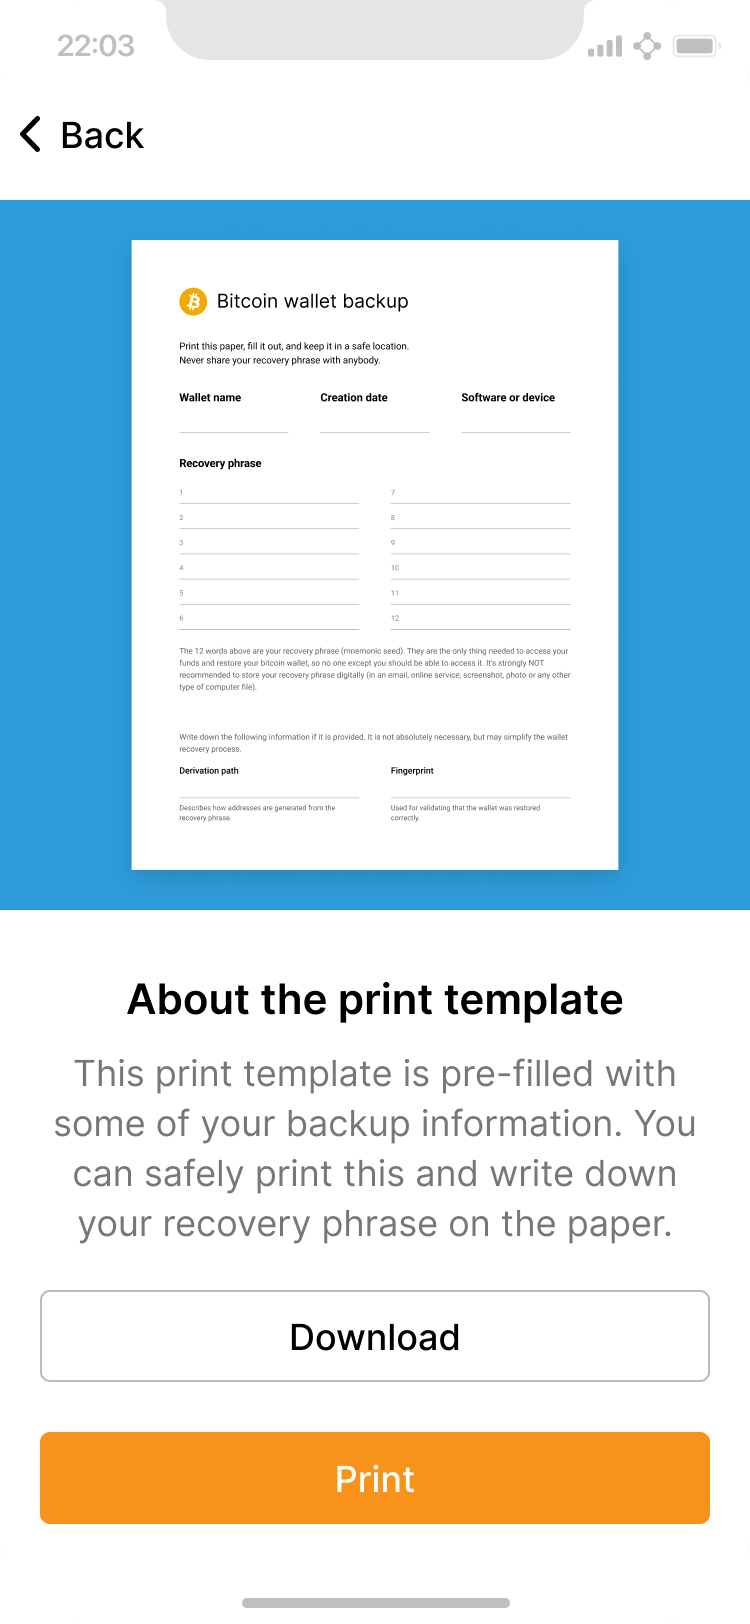
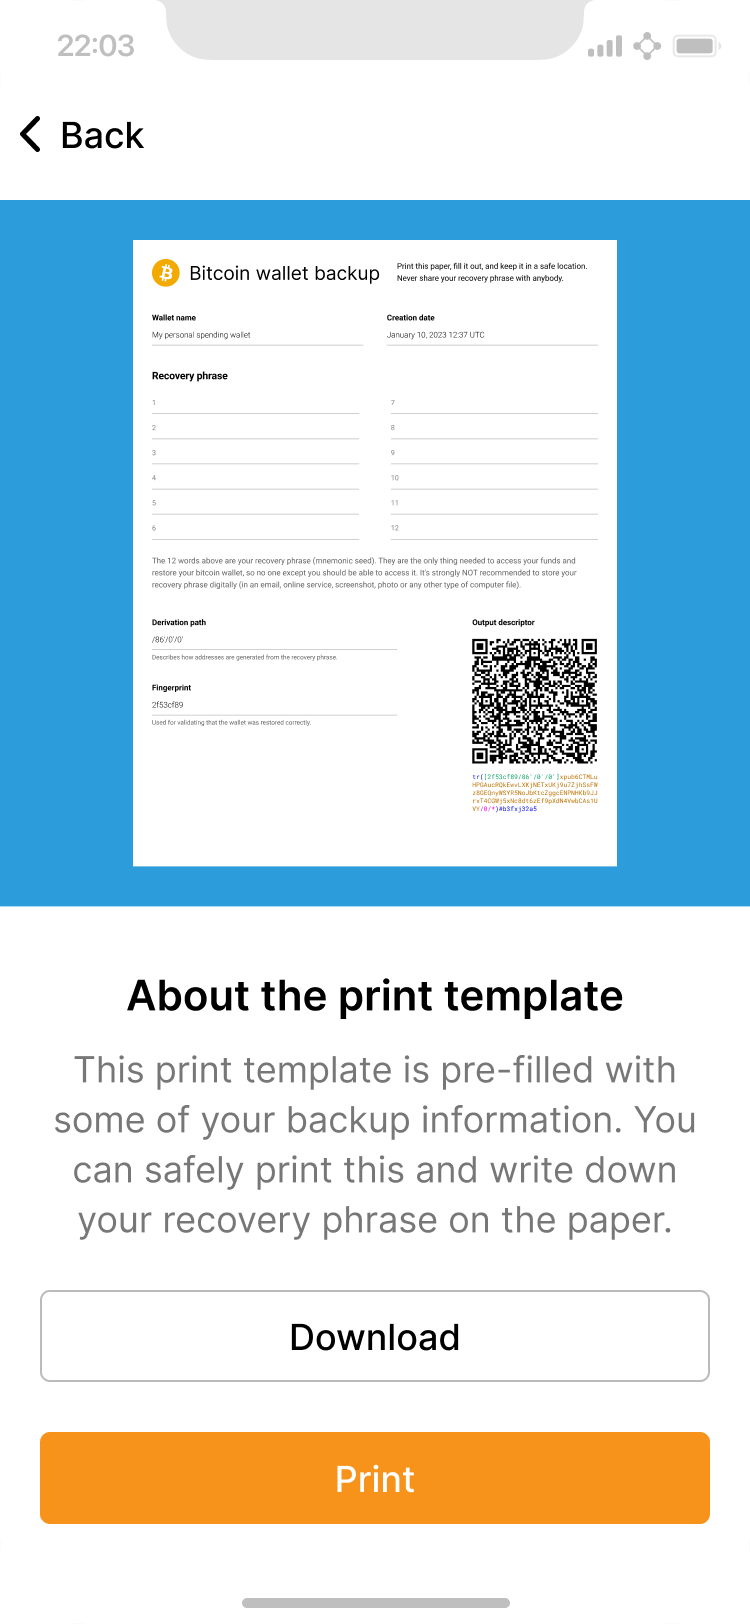
Added descriptor QR to print template

diff --git a/guide/daily-spending-wallet/backup-and-recovery/manual-backup.md b/guide/daily-spending-wallet/backup-and-recovery/manual-backup.md
@@ -188,11 +188,27 @@ Note that this wallet explicitly instructs users to number each word (e.g. 1. sa
 
 ### Print template
 
+<div class="center" markdown="1">
+
+{% include picture.html
+   image = "/assets/images/guide/daily-spending-wallet/backup-and-recovery/manual-backup/manual-backup-print-detail.png"
+   retina = "/assets/images/guide/daily-spending-wallet/backup-and-recovery/manual-backup/manual-backup-print-detail@2x.png"
+   modalImage = "/assets/images/guide/daily-spending-wallet/backup-and-recovery/manual-backup/manual-backup-print-detail-full.png"
+   modalImageMobile = "/assets/images/guide/daily-spending-wallet/backup-and-recovery/manual-backup/manual-backup-print-detail@2x.png"
+   alt-text = "Print backup template"
+   caption = "The print template, pre-populated with non-sensitive information"
+   width = 400
+   height = 486
+   layout = "float-left-desktop"
+%}
+
 This wallet also offers the user a printable template they can use to write down their recovery phrase. This can help instill a sense of trust, guidance, and organization (especially if they have multiple wallets). It may also encourage them to treat this designated paper with importance rather than quickly scribbling it down on a random scrap. Here is an example template.
+
+[Printable Template Figma File](https://www.figma.com/file/ljHoASy3tHYy0M4qt4oTPG/Daily-spending-wallet---Printable-template?node-id=0%3A1&t=W7b46LDrd2AbgeMS-1){: .button }
 
 Some non-sensitive data (such as the name of your wallet or the derivation path) could be included pre-filled in the template. An output script descriptor could be included as a QR code to ensure the wallet software knows how to restore the wallet properly. However, the user should always be required to write in sensitive data such as the recovery phrase by hand.
 
-[Printable Template Figma File](https://www.figma.com/community/file/1110806582648546839){: .button }
+</div>
 
 {% include image-gallery.html pages = page.images_template %}
 
